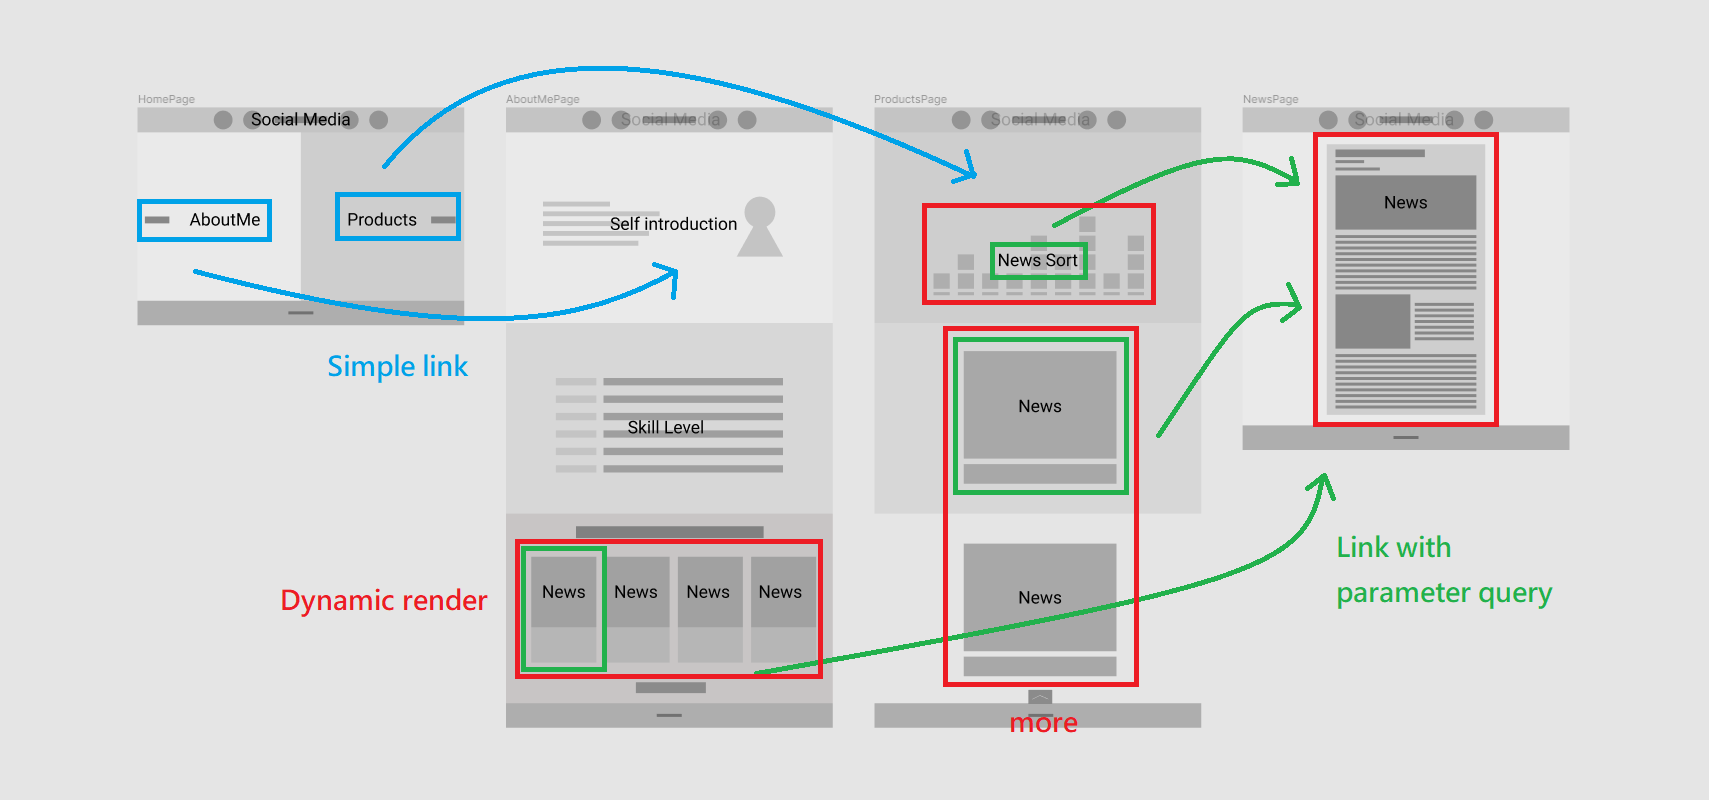
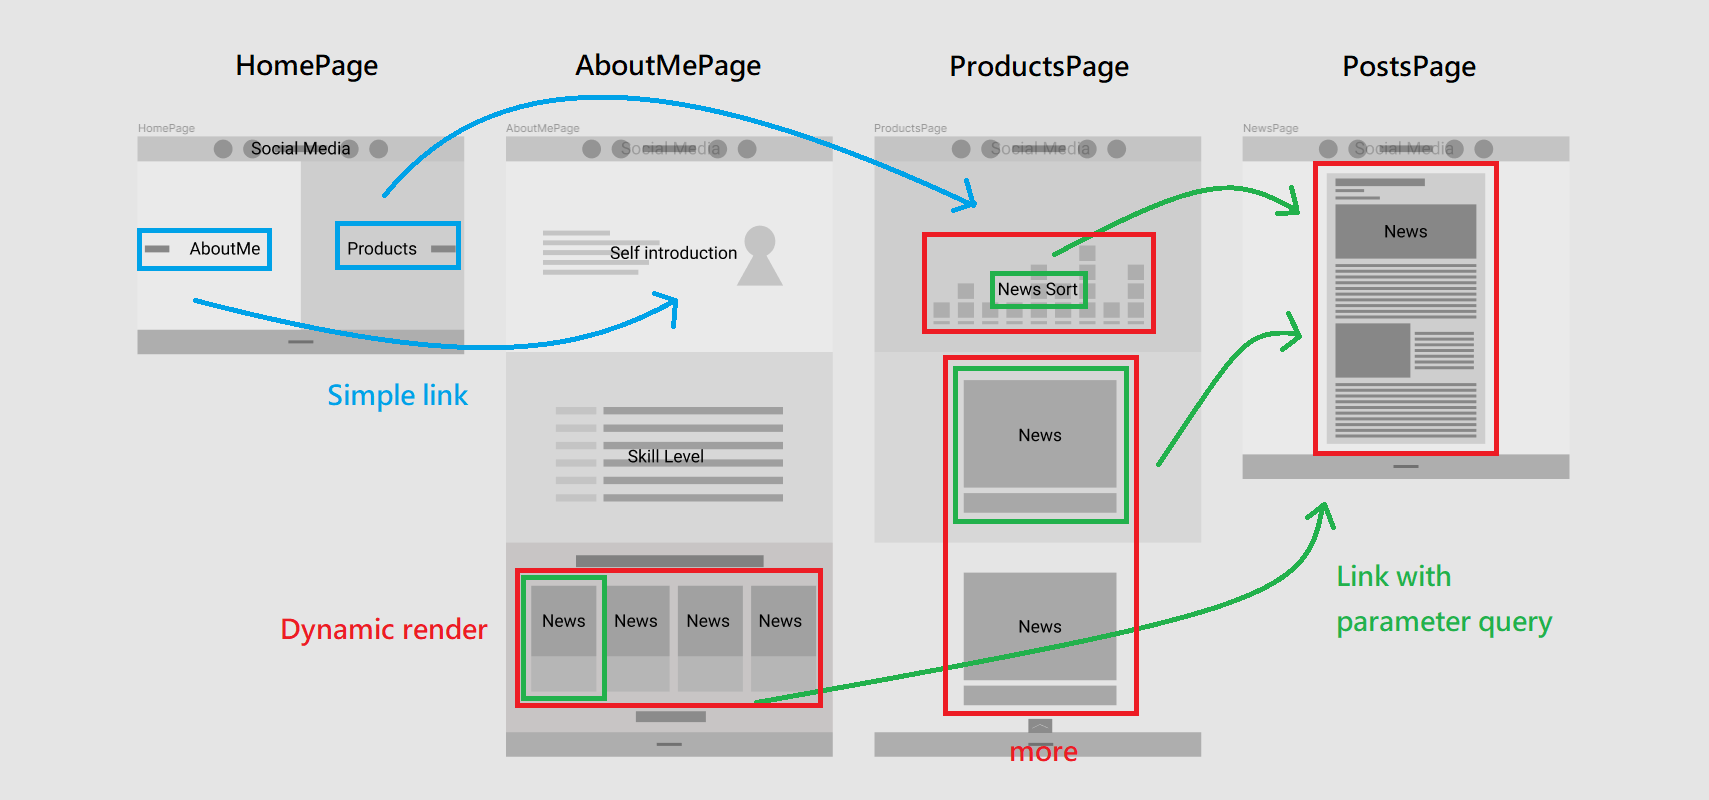
m

diff --git a/Personal-Branding-Image/Site_Reception/README.md b/Personal-Branding-Image/Site_Reception/README.md
@@ -7,4 +7,8 @@
 218. 首先將寫好的靜態網站利用 fireshot 將整個頁面下來確定哪些地方是動態的，才能確定景觀建築專案的內容該如何整理。
 219. 大致上 sitemap 如下
 
+## Sitemap
+
 ![IMAGE](https://github.com/johch3n611u/Side-Project-Personal-Branding-Image-Web/blob/master/Personal-Branding-Image/Site_Reception/img/sitemap.png)
+
+##
